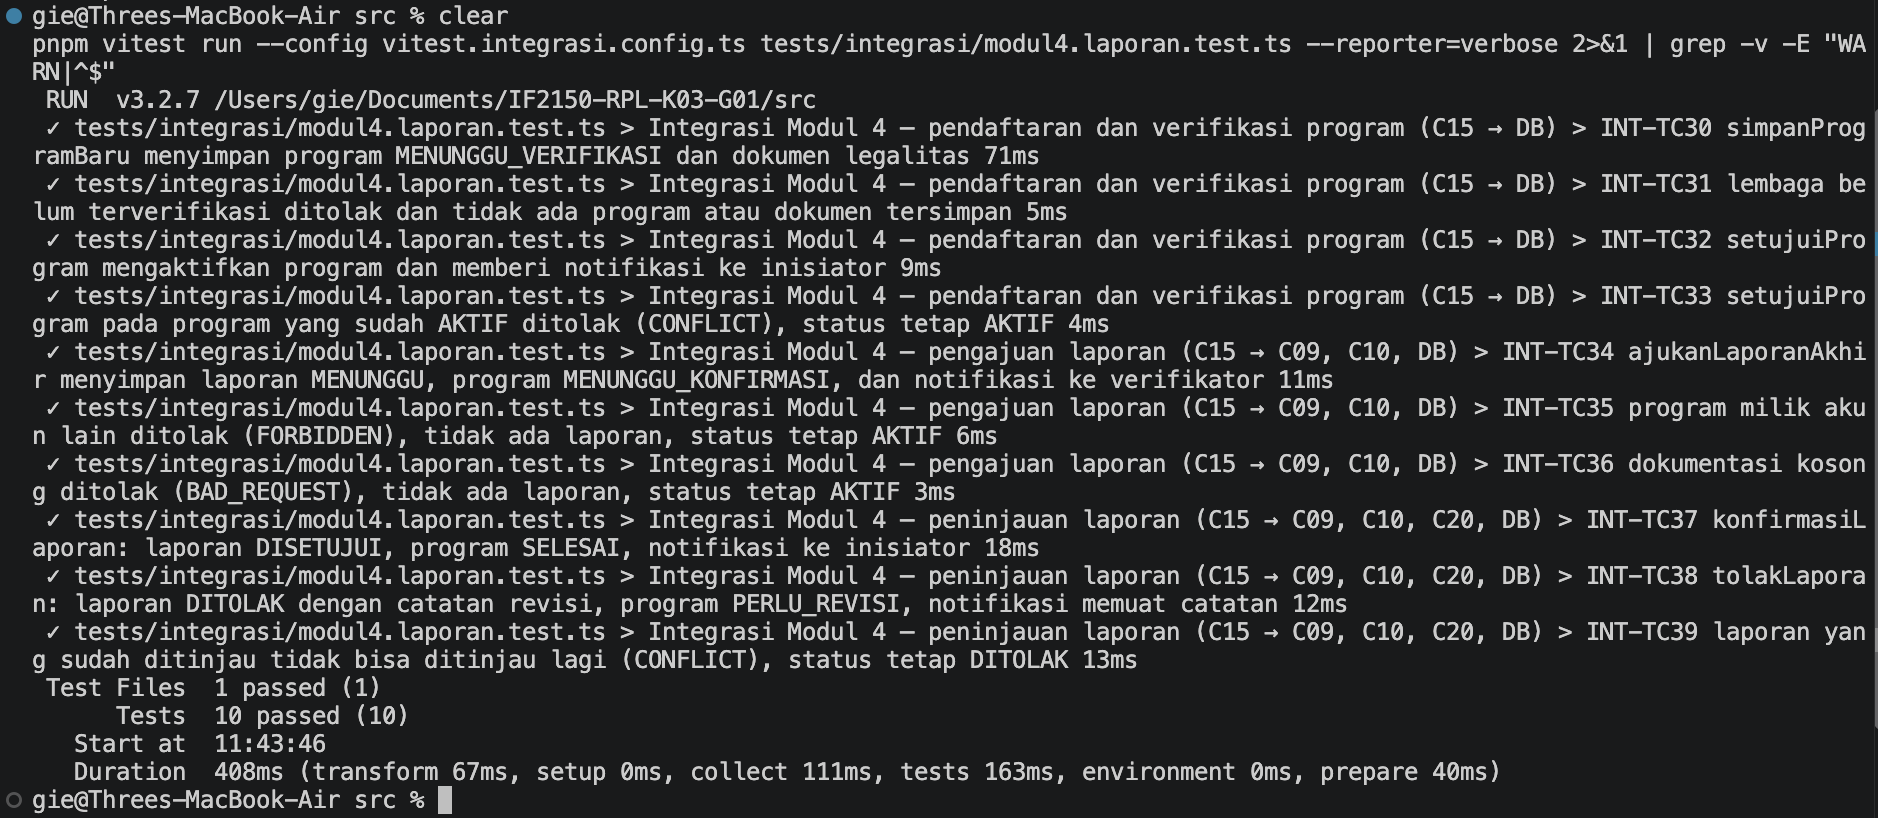
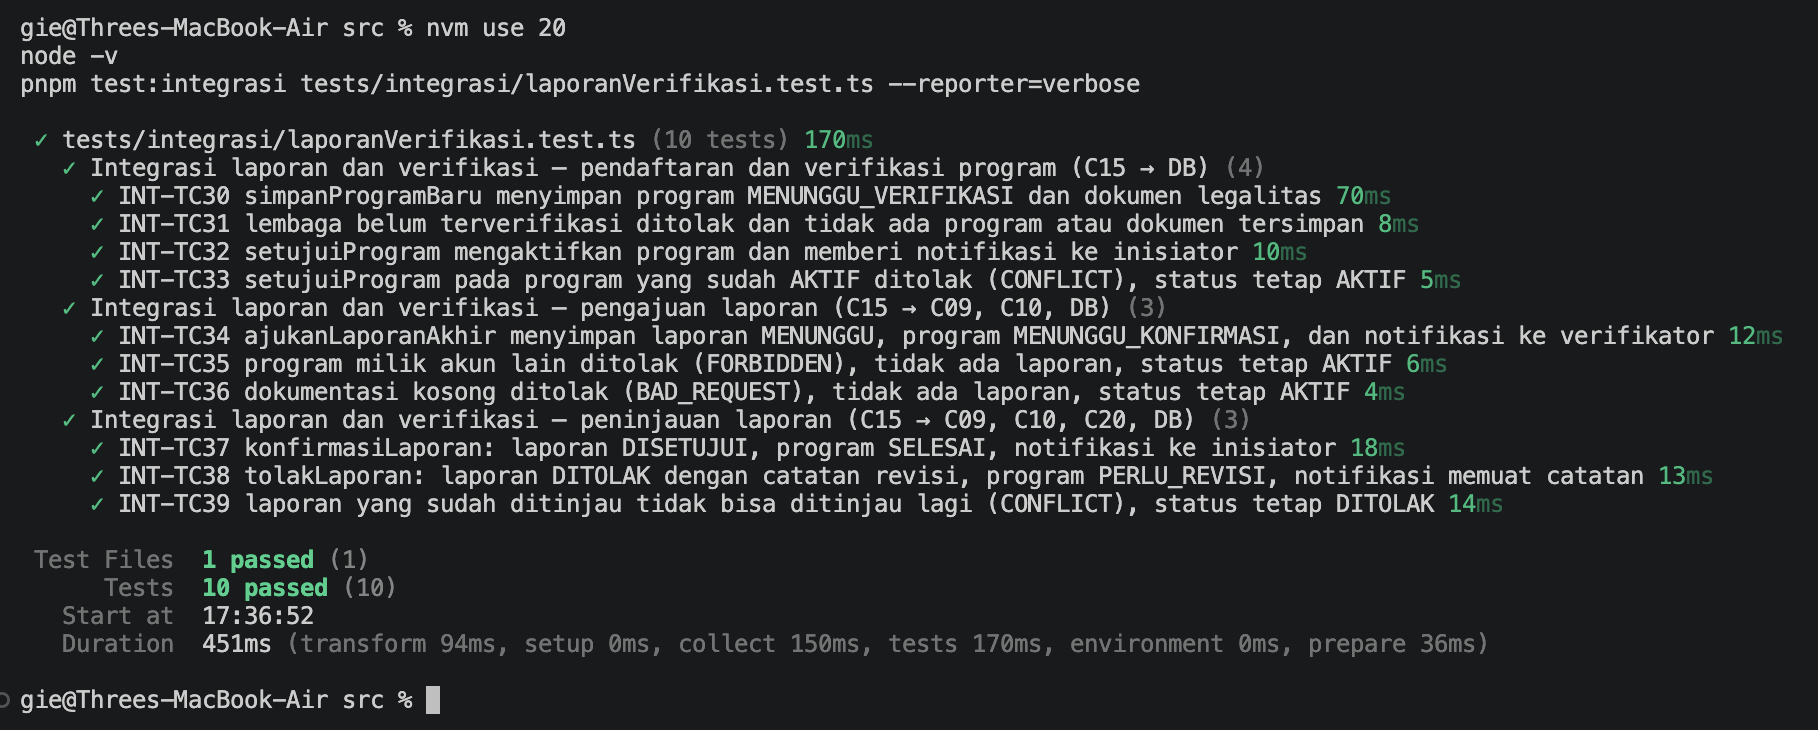
test: ganti nama berkas uji integrasi dan perbarui bukti

Changed region(s): [[0.0, 0.0, 1.0, 0.9945]]

diff --git a/src/tests/integrasi/laporanVerifikasi.test.ts b/src/tests/integrasi/laporanVerifikasi.test.ts
@@ -8,7 +8,7 @@ import {
 } from "~/server/controllers/ProgramController";
 import { db } from "~/server/db";
 
-// Uji integrasi Modul 4 (HIUPL 4.3): ProgramController (C15), LaporanProgram (C09),
+// Uji integrasi laporan dan verifikasi (HIUPL 4.3): ProgramController (C15), LaporanProgram (C09),
 // Notifikasi (C10), dan PresensiController (C20) dengan PostgreSQL sungguhan. Tanpa mock.
 
 const kontroler = new ProgramController();
@@ -45,7 +45,7 @@ async function buatAkun(
 function dataProgram(namaProgram: string): DataProgramBaru {
   return {
     namaProgram,
-    deskripsi: "Program uji integrasi Modul 4.",
+    deskripsi: "Program uji integrasi laporan dan verifikasi.",
     kategori: "JAGA_ALAM",
     tempatPelaksanaan: "Bandung",
     waktuMulai: new Date("2026-11-01T08:00:00Z"),
@@ -98,7 +98,7 @@ afterAll(async () => {
   await db.$disconnect();
 });
 
-describe("Integrasi Modul 4 – pendaftaran dan verifikasi program (C15 → DB)", () => {
+describe("Integrasi laporan dan verifikasi – pendaftaran dan verifikasi program (C15 → DB)", () => {
   it("INT-TC30 simpanProgramBaru menyimpan program MENUNGGU_VERIFIKASI dan dokumen legalitas", async () => {
     const idInisiator = await buatAkun("INISIATOR");
     const nama = `Program ${awalan} baru`;
@@ -168,7 +168,7 @@ describe("Integrasi Modul 4 – pendaftaran dan verifikasi program (C15 → DB)"
   });
 });
 
-describe("Integrasi Modul 4 – pengajuan laporan (C15 → C09, C10, DB)", () => {
+describe("Integrasi laporan dan verifikasi – pengajuan laporan (C15 → C09, C10, DB)", () => {
   it("INT-TC34 ajukanLaporanAkhir menyimpan laporan MENUNGGU, program MENUNGGU_KONFIRMASI, dan notifikasi ke verifikator", async () => {
     const idInisiator = await buatAkun("INISIATOR");
     const idVerifikator = await buatAkun("VERIFIKATOR");
@@ -246,7 +246,7 @@ describe("Integrasi Modul 4 – pengajuan laporan (C15 → C09, C10, DB)", () =>
   });
 });
 
-describe("Integrasi Modul 4 – peninjauan laporan (C15 → C09, C10, C20, DB)", () => {
+describe("Integrasi laporan dan verifikasi – peninjauan laporan (C15 → C09, C10, C20, DB)", () => {
   it("INT-TC37 konfirmasiLaporan: laporan DISETUJUI, program SELESAI, notifikasi ke inisiator", async () => {
     const idInisiator = await buatAkun("INISIATOR");
     const idVerifikator = await buatAkun("VERIFIKATOR");
